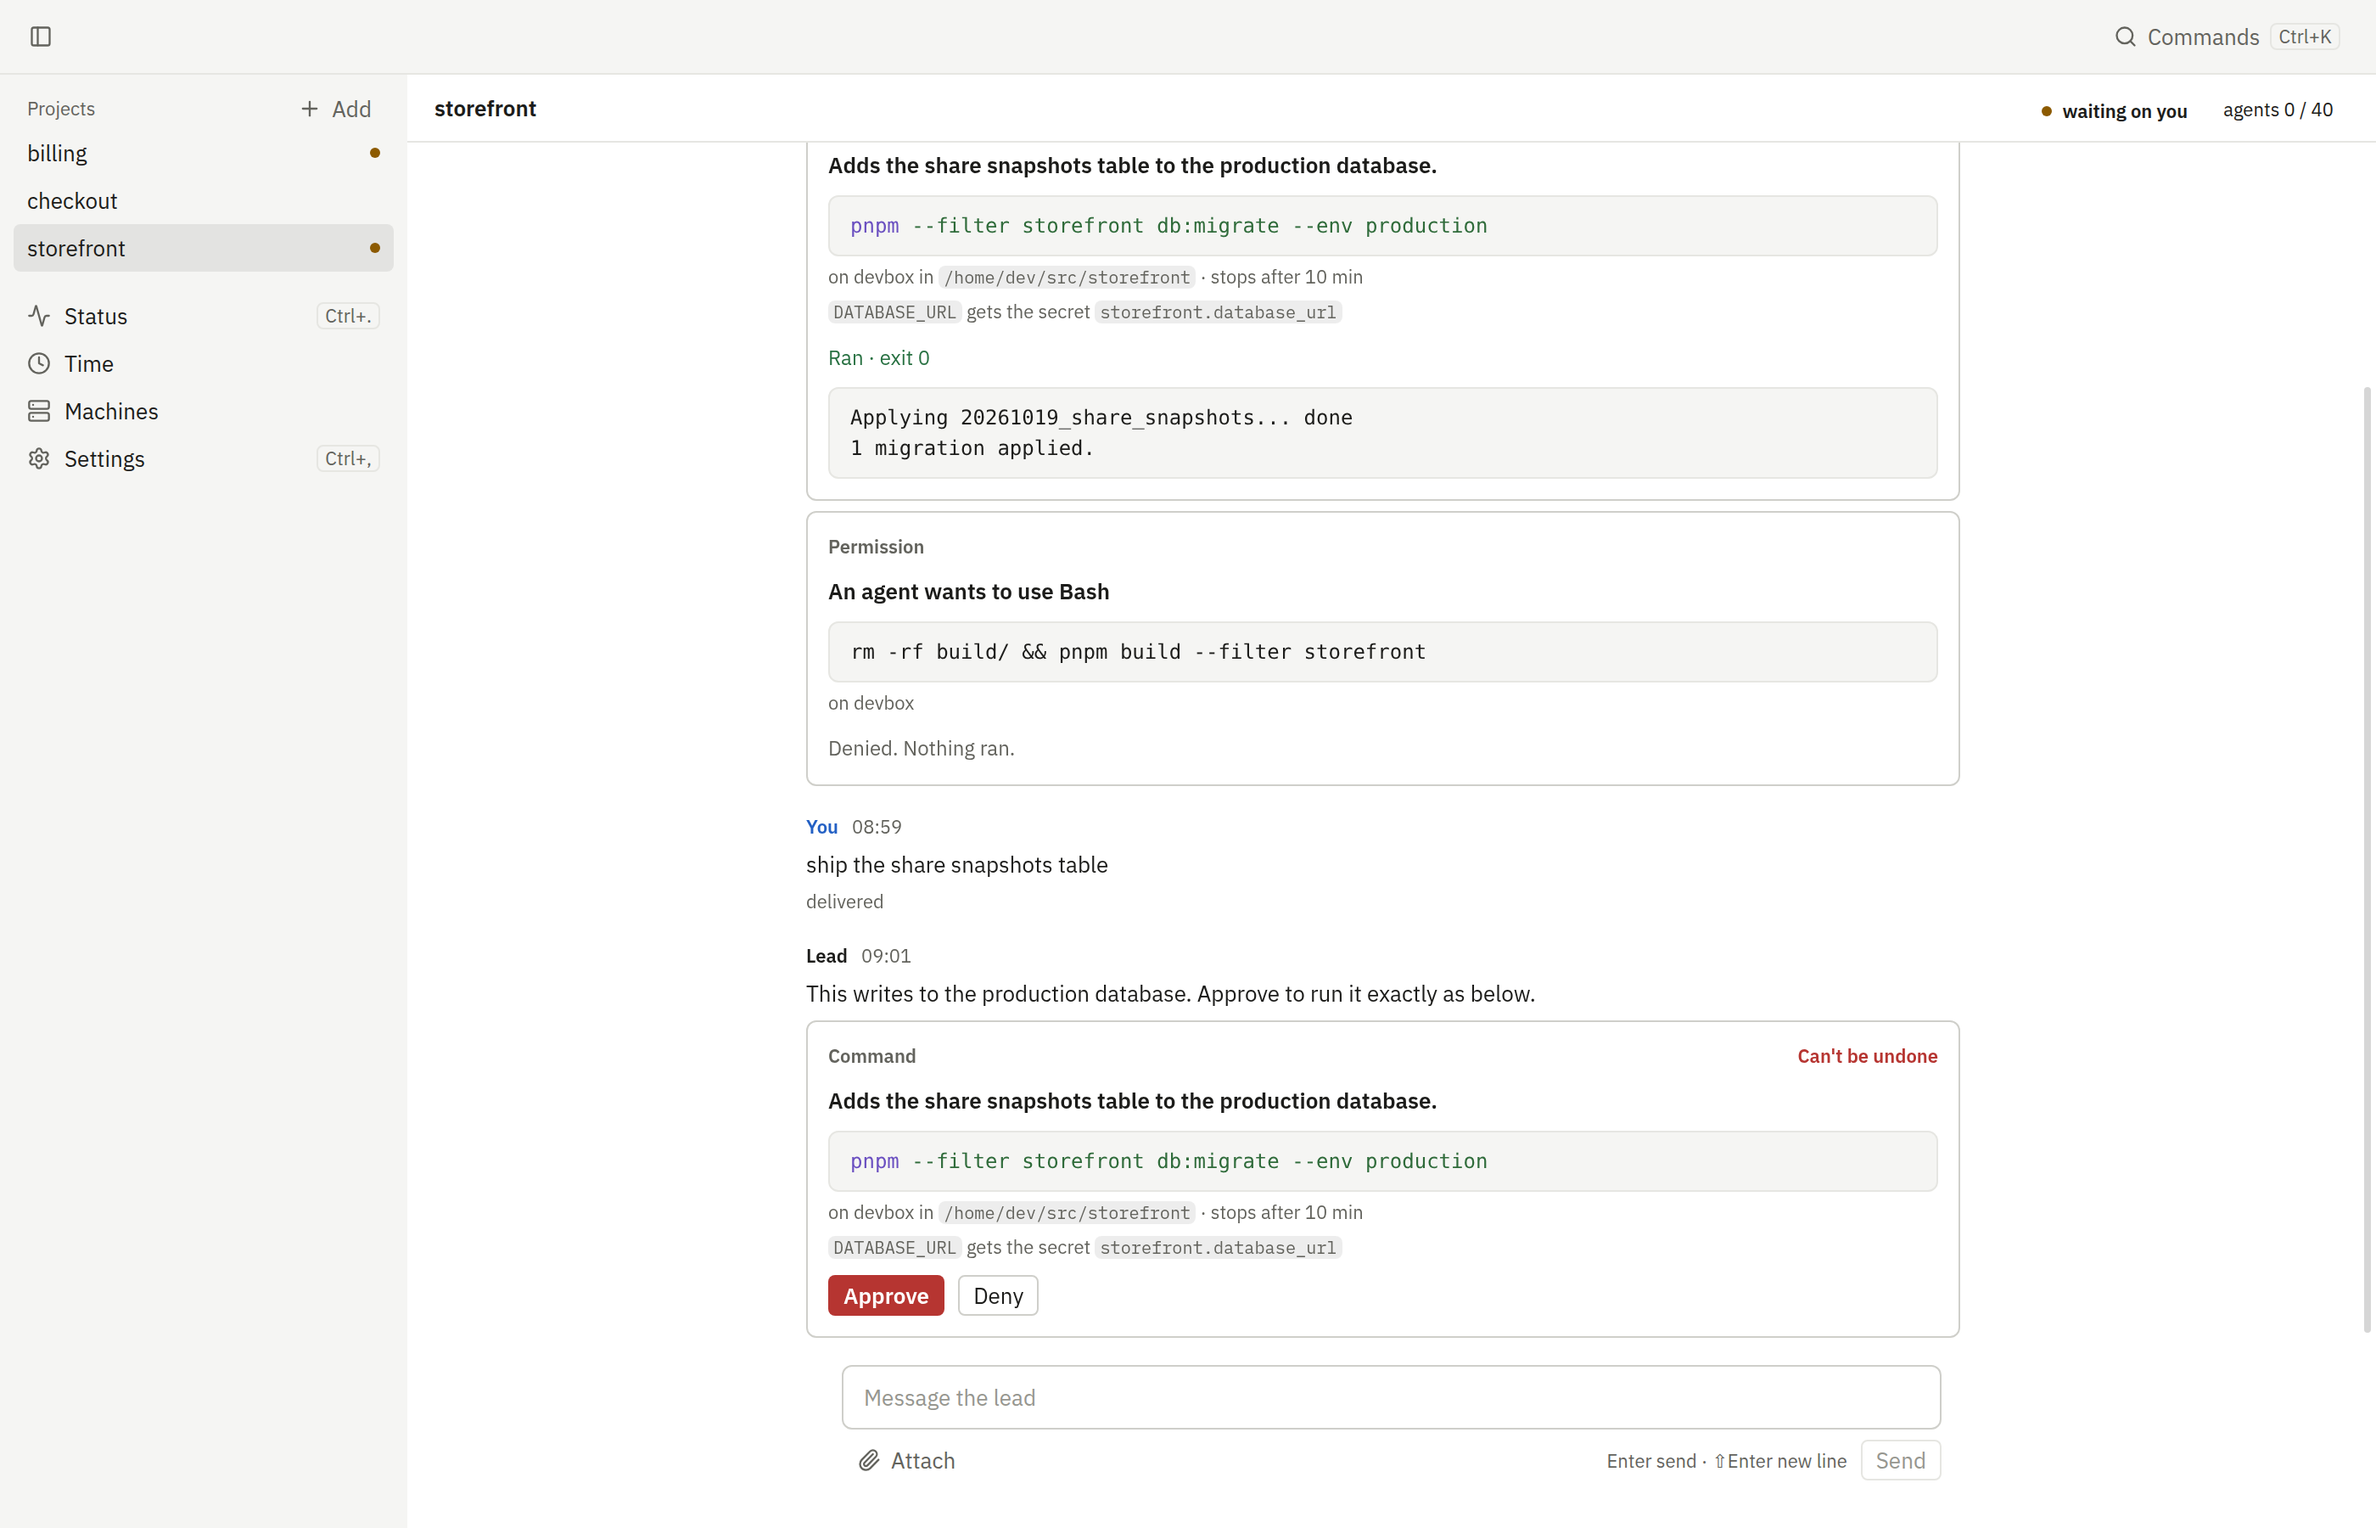
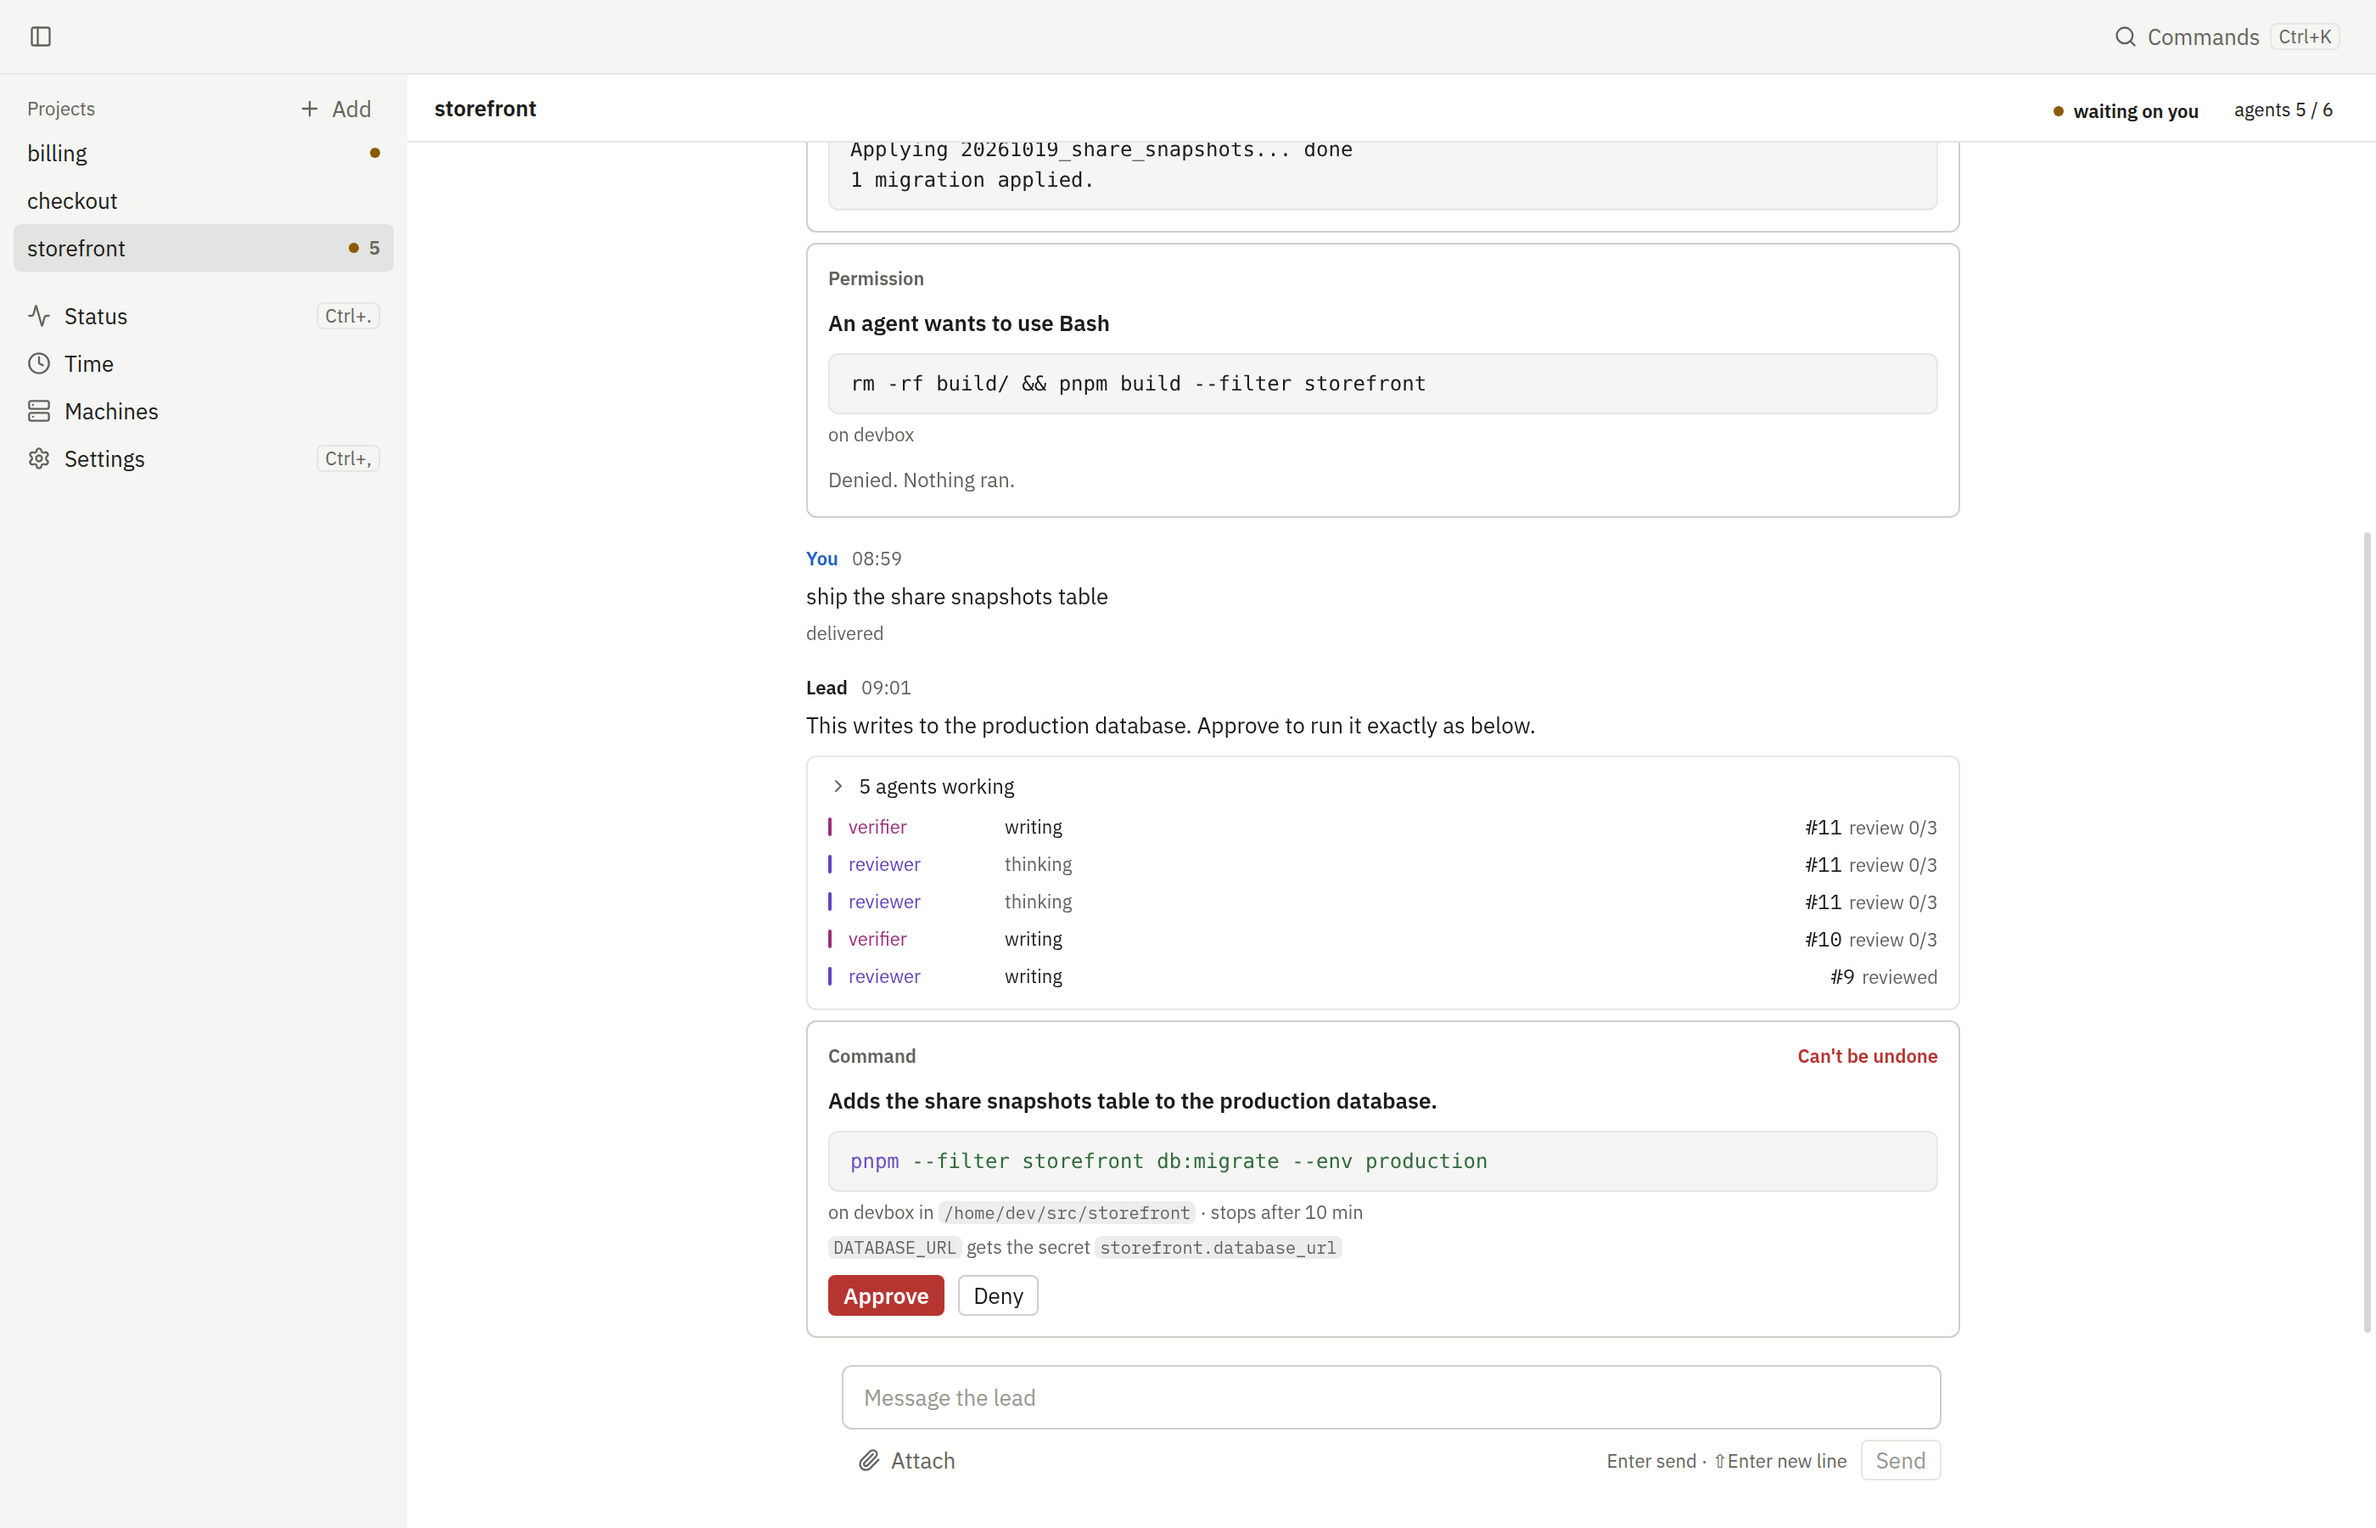
fix(site): re-shoot the chat screenshots on the fixed agent counts
E3b's fixture fix (in integration/chat-1) makes the agent counts agree across a chat's header, its strip, the
sidebar and Status, so every chat and Status shot is re-shot: the landing page's chat-hero, chat-approve and
chat-secret, and the docs' chat, status, max-agents, chat-command, chat-secret, add-project and time. Also new:
docs/site/public/img/chat-history.png (chat~history: chat-long at the top, "From before this chat"), listed in
qa/site.ts for the docs on migrated history.

The landing figures follow the new screens. Fig. 1's pin 10 moves to the lead's line, now above a strip of agents.
In Fig. 2 the field and the sealed note moved down, and a saved secret no longer shows a fingerprint, so note 20 and
the alt text say what it shows. site-layout-check passes at every width. Two docs alt texts are corrected:
storefront has five agents in Status, and the saved secret has no fingerprint. site/docs is rebuilt.

diff --git a/site/home.html b/site/home.html
@@ -205,9 +205,9 @@ p{margin:0}
   <figcaption class="cap" id="f1"><b>Fig. 1 · Approve what can’t be undone.</b>
     <p>The lead runs almost everything itself. A command that can’t be undone, costs money or needs a credential waits in the chat, exactly as it will run, until you approve it.</p></figcaption>
   <div class="frame">
-    <a class="shot" href="/chat-approve.png"><img src="/chat-approve.png" width="2800" height="1800" alt="storefront’s chat in the fleetd app: the lead says the migration writes to the production database and asks you to approve it exactly as below; a card shows the command pnpm --filter storefront db:migrate --env production on devbox, marked Can’t be undone, with Approve and Deny. Above it, an earlier run of the same command and an agent’s denied request to use Bash."></a>
+    <a class="shot" href="/chat-approve.png"><img src="/chat-approve.png" width="2800" height="1800" alt="storefront’s chat in the fleetd app: the lead says the migration writes to the production database and asks you to approve it exactly as below; a card shows the command pnpm --filter storefront db:migrate --env production on devbox, marked Can’t be undone, with Approve and Deny. Between them, the strip of agents at work; above, an agent’s denied request to use Bash."></a>
     <ol class="notes">
-      <li class="up" style="--x:34.9;--y:62.5"><span class="pin"><i>10</i></span><p class="note"><span class="n">10</span><span>The lead says what it wants to run and why, in a line.</span></p></li>
+      <li class="up" style="--x:34.9;--y:44.9"><span class="pin"><i>10</i></span><p class="note"><span class="n">10</span><span>The lead says what it wants to run and why, in a line.</span></p></li>
       <li class="flip" style="--x:78.6;--y:69.1"><span class="pin"><i>12</i></span><p class="note"><span class="n">12</span><span>Why it waits for you: this one can’t be undone. Commands that cost money or need a credential wait too.</span></p></li>
       <li class="" style="--x:40;--y:76"><span class="pin"><i>14</i></span><p class="note"><span class="n">14</span><span>The exact command, the machine and folder it runs in, and the secret it gets. Approve runs it as shown; Deny tells the lead, which carries on without it.</span></p></li>
     </ol>
@@ -218,12 +218,12 @@ p{margin:0}
   <figcaption class="cap" id="f2"><b>Fig. 2 · Secrets stay out of the chat.</b>
     <p>When the lead needs a key, you type it into a masked field. It is sealed to the machine that uses it; the chat and the hub never see it.</p></figcaption>
   <div class="frame">
-    <a class="shot" href="/chat-secret.png"><img src="/chat-secret.png" width="2800" height="1800" loading="lazy" alt="storefront’s chat in the fleetd app: the lead needs the Stripe test key, which goes to devbox only; a card says it will be saved as STRIPE_TEST_KEY in the project’s .env.test on devbox, with a masked field and Save secret. Above it, the same key saved earlier, shown only by its fingerprint."></a>
+    <a class="shot" href="/chat-secret.png"><img src="/chat-secret.png" width="2800" height="1800" loading="lazy" alt="storefront’s chat in the fleetd app: the lead needs the Stripe test key, which goes to devbox only; a card says it will be saved as STRIPE_TEST_KEY in the project’s .env.test on devbox, with a masked field and Save secret. Above it, the agents at work and the same key saved earlier, shown only as saved."></a>
     <ol class="notes">
-      <li class="" style="--x:42;--y:34"><span class="pin"><i>20</i></span><p class="note"><span class="n">20</span><span>A saved secret shows only its fingerprint.</span></p></li>
+      <li class="" style="--x:37.7;--y:34"><span class="pin"><i>20</i></span><p class="note"><span class="n">20</span><span>A secret saved earlier shows only that it was saved, never its value.</span></p></li>
       <li class="" style="--x:50.8;--y:50"><span class="pin"><i>22</i></span><p class="note"><span class="n">22</span><span>The lead asks for the key in the chat, and says where it goes.</span></p></li>
-      <li class="flip" style="--x:55;--y:63.8"><span class="pin"><i>24</i></span><p class="note"><span class="n">24</span><span>Paste it here. It never enters the transcript.</span></p></li>
-      <li class="" style="--x:56.9;--y:67.2"><span class="pin"><i>26</i></span><p class="note"><span class="n">26</span><span>Sealed on your computer to that machine’s key; the hub only passes it on.</span></p></li>
+      <li class="flip" style="--x:55;--y:81.4"><span class="pin"><i>24</i></span><p class="note"><span class="n">24</span><span>Paste it here. It never enters the transcript.</span></p></li>
+      <li class="" style="--x:56.9;--y:84.8"><span class="pin"><i>26</i></span><p class="note"><span class="n">26</span><span>Sealed on your computer to that machine’s key; the hub only passes it on.</span></p></li>
     </ol>
   </div>
 </figure>

diff --git a/site/docs/desktop-app.html b/site/docs/desktop-app.html
@@ -151,7 +151,7 @@ on a chat attach to your message. See <a href="/docs/projects#add-a-project">Add
 <p><img src="/docs/img/chat.png" alt="The storefront project’s chat: you asked to round the cart totals once, the lead replied that writers are splitting the change into three PRs, and under its message the strip shows three agents working. In the sidebar, billing has the needs-you dot."></p>
 <p>How to work with the lead: <a href="/docs/chat">Chat with the lead</a>.</p>
 <div class="sl-heading-wrapper level-h2"><h2 id="status">Status</h2><a class="sl-anchor-link" href="#status"><span aria-hidden="true" class="sl-anchor-icon"><svg width="16" height="16" viewBox="0 0 24 24" fill="currentColor"><path d="m12.11 15.39-3.88 3.88a2.52 2.52 0 0 1-3.5 0 2.47 2.47 0 0 1 0-3.5l3.88-3.88a1 1 0 1 0-1.42-1.42l-3.88 3.89a4.48 4.48 0 0 0 6.33 6.33l3.89-3.88a1 1 0 0 0-1.42-1.42m8.58-12.08a4.49 4.49 0 0 0-6.33 0l-3.89 3.88a1 1 0 1 0 1.42 1.42l3.88-3.88a2.52 2.52 0 0 1 3.5 0 2.47 2.47 0 0 1 0 3.5l-3.88 3.88a1 1 0 0 0 0 1.42 1 1 0 0 0 1.42 0l3.88-3.89a4.49 4.49 0 0 0 0-6.33M8.83 15.17a1 1 0 0 0 .71.29 1 1 0 0 0 .71-.29l4.92-4.92a1 1 0 1 0-1.42-1.42l-4.92 4.92a1 1 0 0 0 0 1.42"></path></svg></span><span class="sr-only" data-pagefind-ignore>Section titled “Status”</span></a></div>
-<p><img src="/docs/img/status.png" alt="Status with one row per project: billing waiting on you at 64%, checkout blocked at 31%, storefront working at 78% with three agents, each with its last merge."></p>
+<p><img src="/docs/img/status.png" alt="Status with one row per project: billing waiting on you at 64%, checkout blocked at 31%, storefront working at 78% with five agents, each with its last merge."></p>
 <p>Status shows one row per project: a state word (waiting on you, blocked, working or idle), its two-tone progress bar,
 the agents running, and what merged last. Click a row to open that project’s chat; hover it for detail.
 See <a href="/docs/status">Status</a>.</p>

diff --git a/site/docs/approvals-and-secrets.html b/site/docs/approvals-and-secrets.html
@@ -113,7 +113,7 @@ back.</p>
 <div class="sl-heading-wrapper level-h2"><h2 id="secrets">Enter a secret</h2><a class="sl-anchor-link" href="#secrets"><span aria-hidden="true" class="sl-anchor-icon"><svg width="16" height="16" viewBox="0 0 24 24" fill="currentColor"><path d="m12.11 15.39-3.88 3.88a2.52 2.52 0 0 1-3.5 0 2.47 2.47 0 0 1 0-3.5l3.88-3.88a1 1 0 1 0-1.42-1.42l-3.88 3.89a4.48 4.48 0 0 0 6.33 6.33l3.89-3.88a1 1 0 0 0-1.42-1.42m8.58-12.08a4.49 4.49 0 0 0-6.33 0l-3.89 3.88a1 1 0 1 0 1.42 1.42l3.88-3.88a2.52 2.52 0 0 1 3.5 0 2.47 2.47 0 0 1 0 3.5l-3.88 3.88a1 1 0 0 0 0 1.42 1 1 0 0 0 1.42 0l3.88-3.89a4.49 4.49 0 0 0 0-6.33M8.83 15.17a1 1 0 0 0 .71.29 1 1 0 0 0 .71-.29l4.92-4.92a1 1 0 1 0-1.42-1.42l-4.92 4.92a1 1 0 0 0 0 1.42"></path></svg></span><span class="sr-only" data-pagefind-ignore>Section titled “Enter a secret”</span></a></div>
 <p>When a lead needs an API key or a password, it asks with <code dir="auto">request_secret</code>, and the item names the machine and where
 the value goes: a line in an env file, or a file.</p>
-<p><img src="/docs/img/chat-secret.png" alt="A secret item in storefront’s chat: the lead needs the Stripe test key, which goes to devbox only. The card names where it is saved, with a masked field and Save secret. Above it, a secret already saved, with its fingerprint."></p>
+<p><img src="/docs/img/chat-secret.png" alt="A secret item in storefront’s chat: the lead needs the Stripe test key, which goes to devbox only. The card names where it is saved, with a masked field and Save secret. Above it, a secret already saved, and the agents at work."></p>
 <ol>
 <li>Type the value in the masked field.</li>
 <li>The app seals it to that machine’s key (a libsodium sealed box) and wipes what you typed.</li>

diff --git a/app/desktop/qa/site.ts b/app/desktop/qa/site.ts
@@ -24,6 +24,7 @@ export const siteShots: readonly SiteShot[] = [
   { file: "site/chat-approve.png", screen: "chat", variant: "inline-chat", fixture: "chat-gated" },
   { file: "site/chat-secret.png", screen: "chat", variant: "inline-chat", fixture: "chat-secret" },
   { file: "docs/site/public/img/chat.png", screen: "chat", variant: "strip", fixture: "live-3" },
+  { file: "docs/site/public/img/chat-history.png", screen: "chat", variant: "history", fixture: "chat-long" },
   { file: "docs/site/public/img/status.png", screen: "status.fleet", fixture: "typical" },
   { file: "docs/site/public/img/max-agents.png", screen: "chat", variant: "max-agents", fixture: "settings-agents" },
   { file: "docs/site/public/img/chat-command.png", screen: "chat", variant: "inline-chat", fixture: "chat-gated" },

diff --git a/docs/site/src/content/docs/approvals-and-secrets.md b/docs/site/src/content/docs/approvals-and-secrets.md
@@ -37,7 +37,7 @@ back.
 When a lead needs an API key or a password, it asks with `request_secret`, and the item names the machine and where
 the value goes: a line in an env file, or a file.
 
-![A secret item in storefront's chat: the lead needs the Stripe test key, which goes to devbox only. The card names where it is saved, with a masked field and Save secret. Above it, a secret already saved, with its fingerprint.](/docs/img/chat-secret.png)
+![A secret item in storefront's chat: the lead needs the Stripe test key, which goes to devbox only. The card names where it is saved, with a masked field and Save secret. Above it, a secret already saved, and the agents at work.](/docs/img/chat-secret.png)
 
 1. Type the value in the masked field.
 2. The app seals it to that machine's key (a libsodium sealed box) and wipes what you typed.
